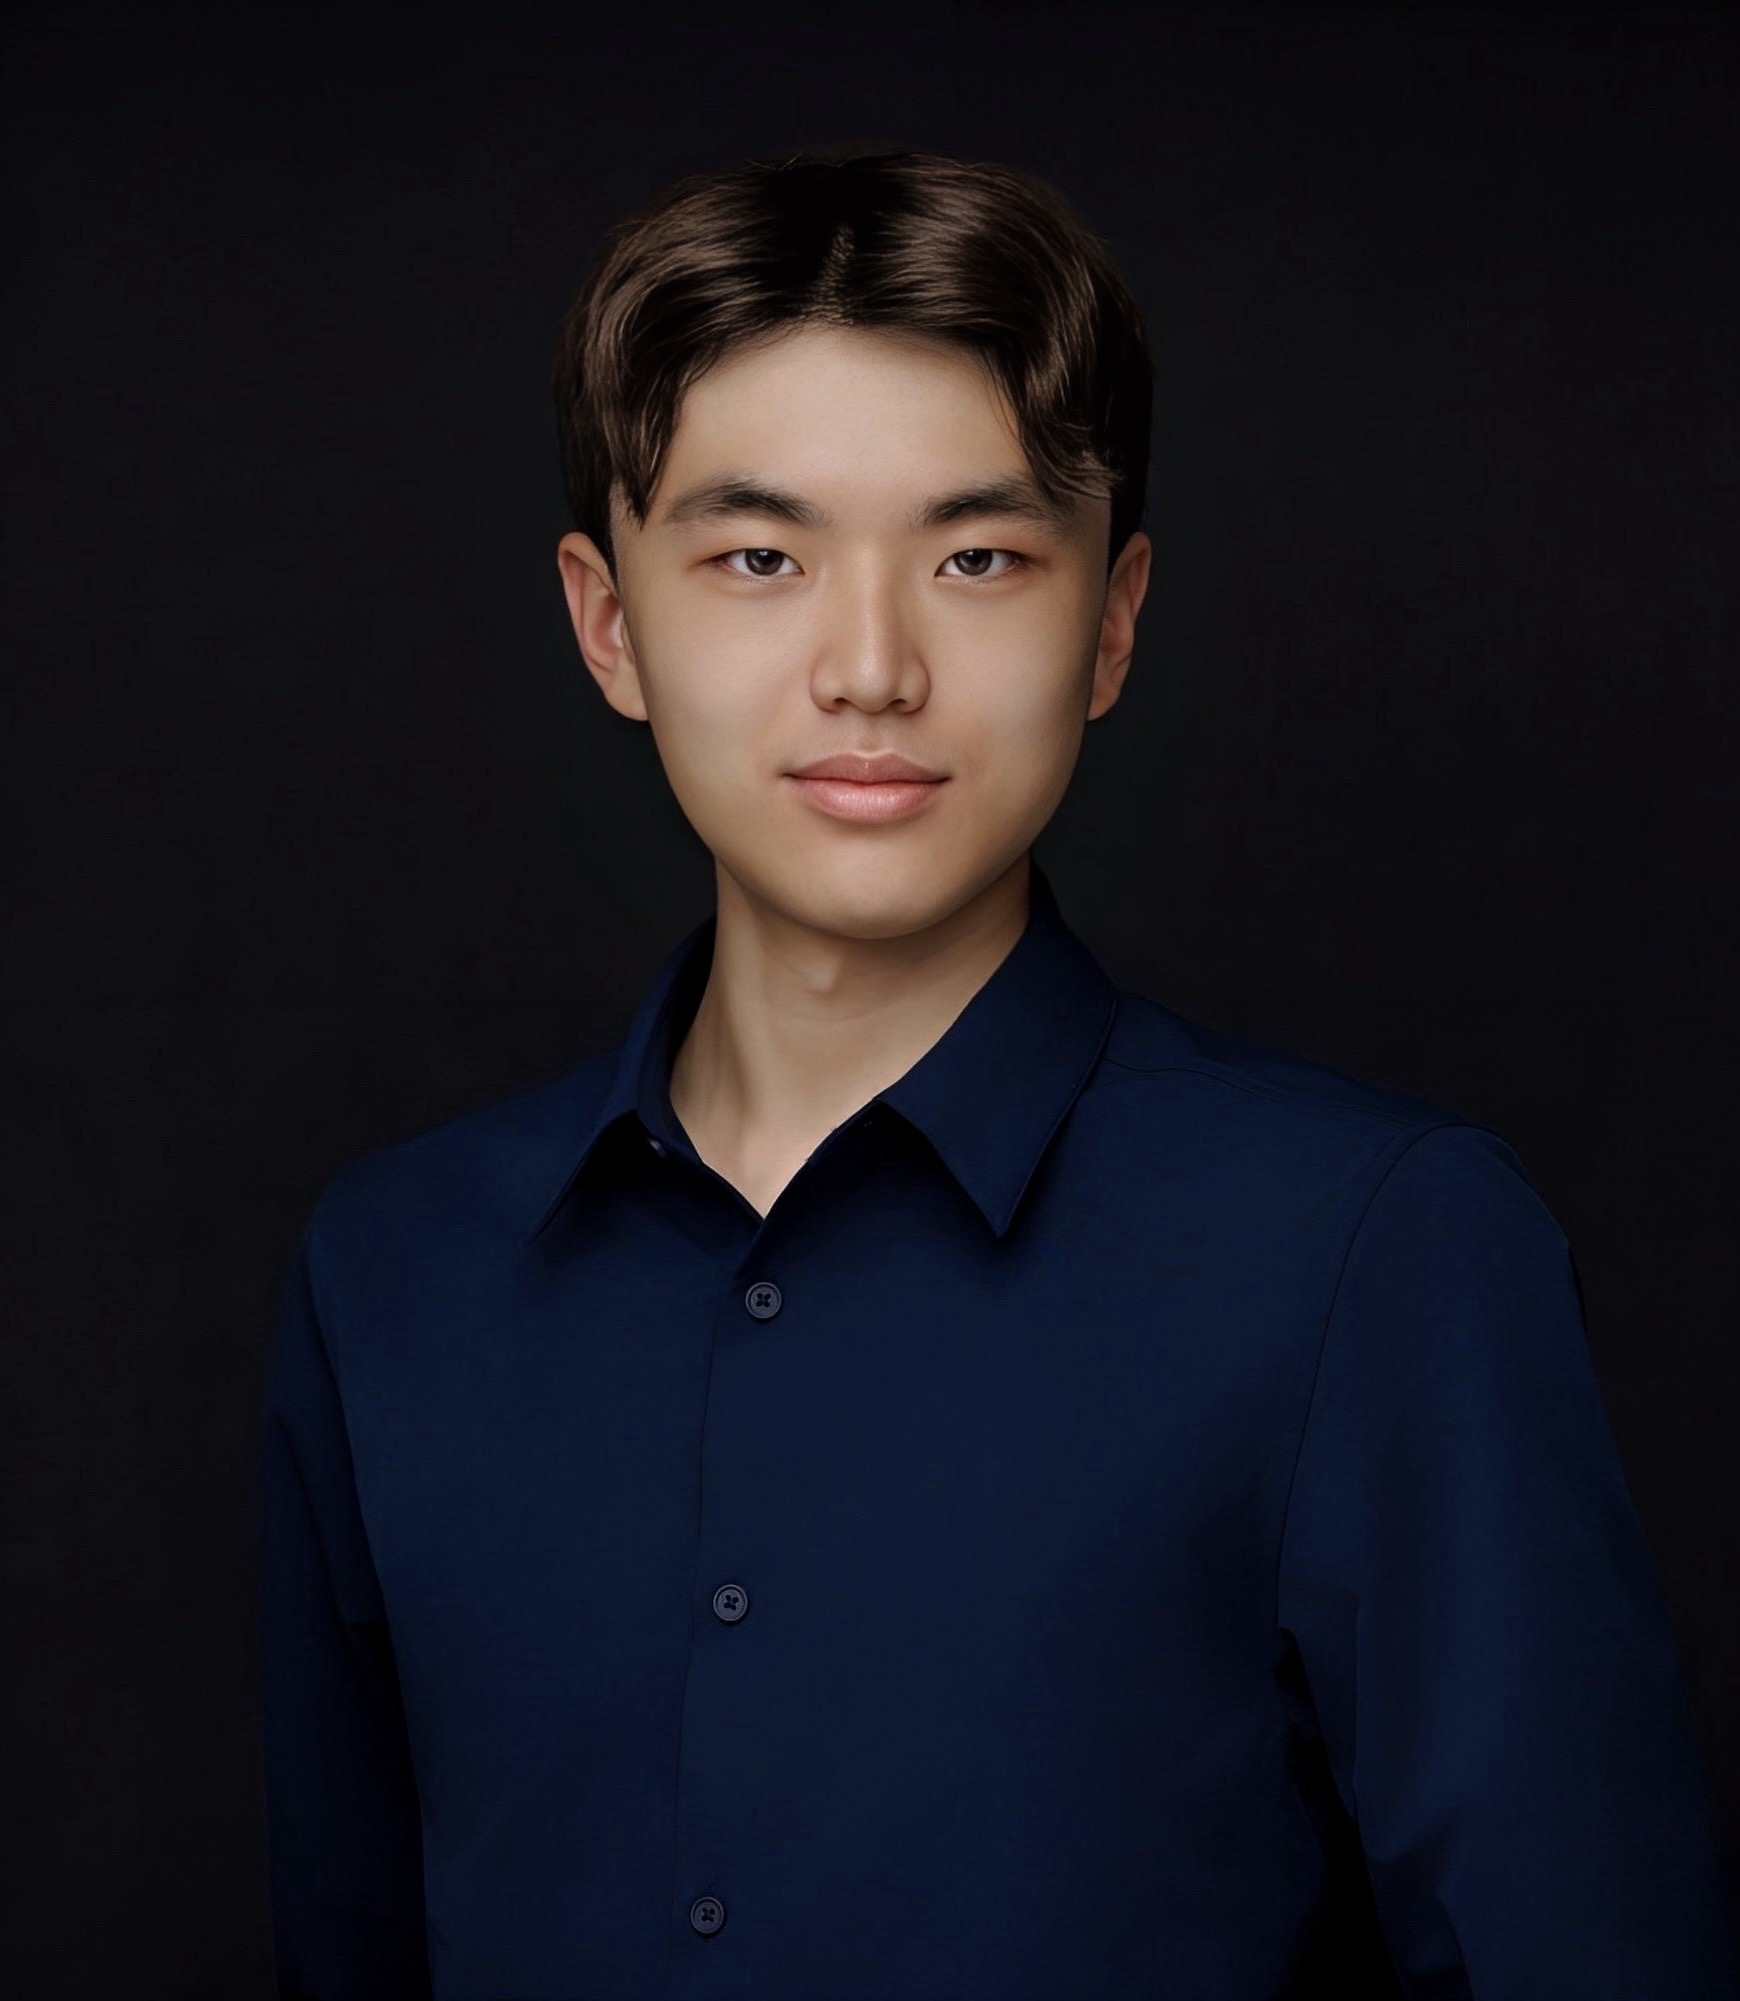
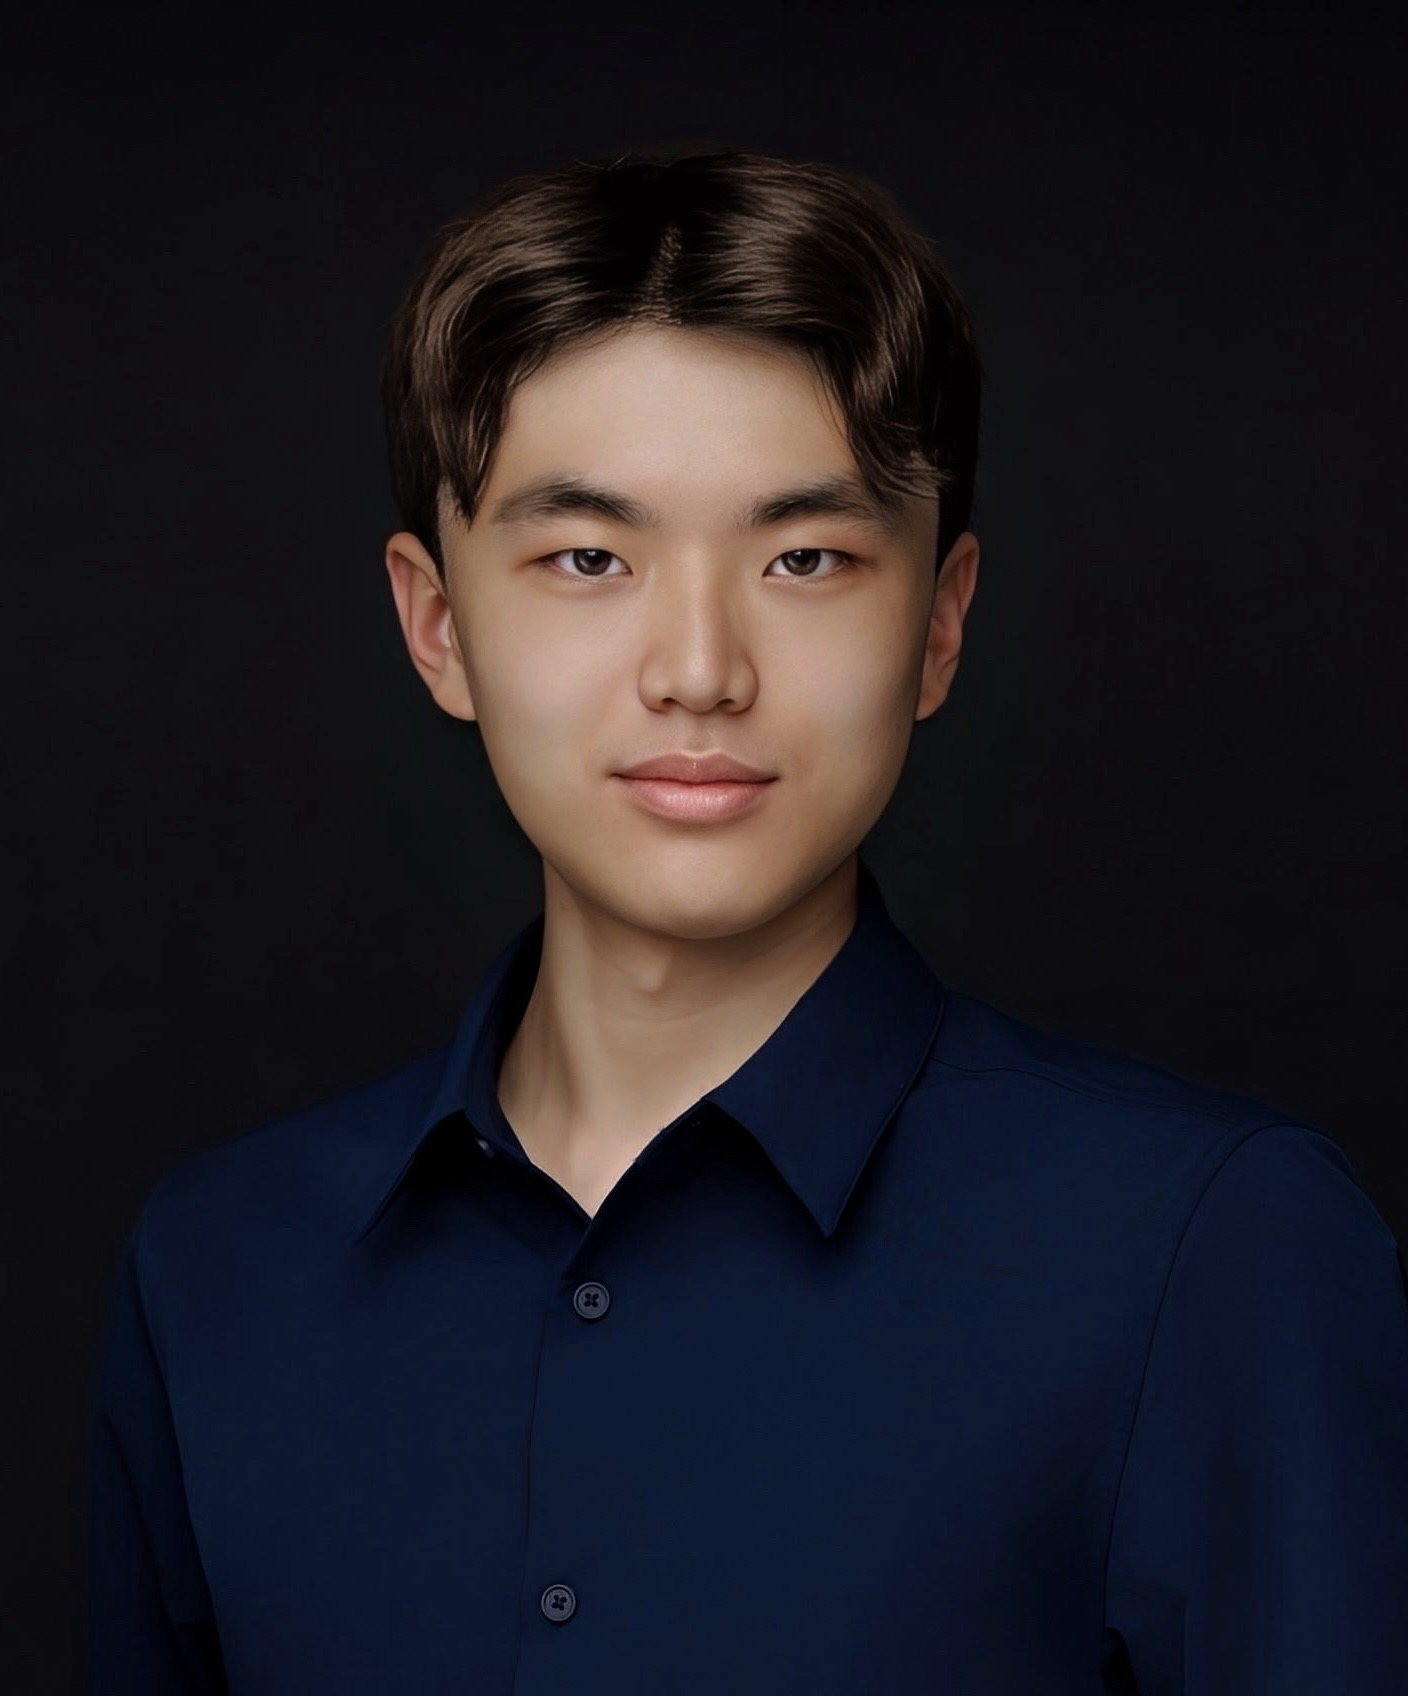
Adjust headshot size

diff --git a/app/components/Hero.tsx b/app/components/Hero.tsx
@@ -9,7 +9,7 @@ export default function Hero() {
       <div className="mx-auto max-w-7xl px-6 py-20 lg:px-8">
         {/* Large heading */}
         <motion.div
-          className="text-center mb-16"
+          className="text-center mt-4 mb-16"
           initial={{ opacity: 0, y: 20 }}
           animate={{ opacity: 1, y: 0 }}
           transition={{ duration: 0.8 }}
@@ -32,9 +32,9 @@ export default function Hero() {
               <Image
                 src="/assets/images/headshot.JPG"
                 alt="Aaron Park's Headshot"
-                width={400}
-                height={400}
-                className="w-80 h-80 object-cover shadow-xl ring-4 ring-gray-100"
+                width={310} // narrower
+                height={360} // taller
+                className="w-60 h-72 object-cover shadow-xl ring-4 ring-gray-100"
                 style={{
                   borderRadius: "50% 50% 20px 20px",
                 }}
